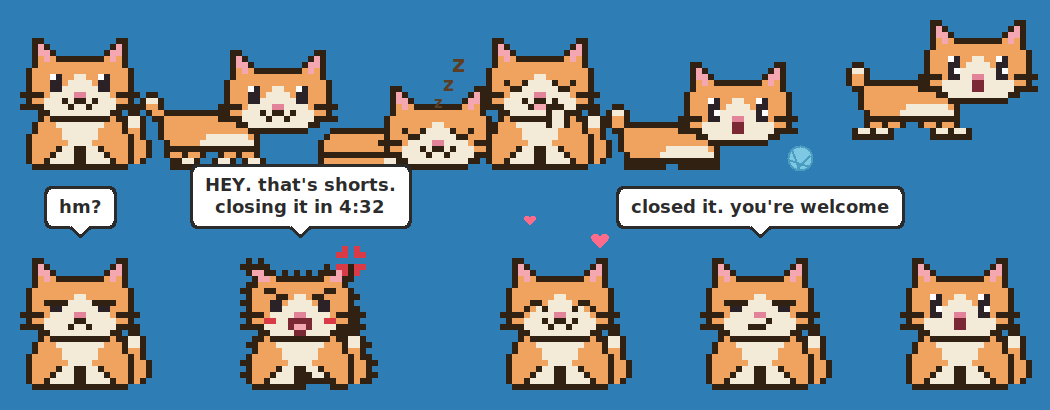
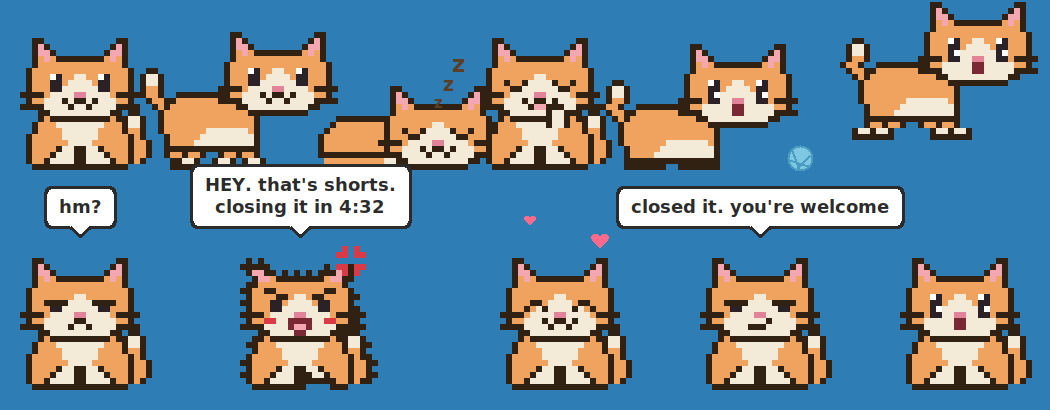
Fix the extension never reaching the cat; rounder walking pixel cat
Firefox ignores ports in extension host permissions, so the extension's
requests to 127.0.0.1:47321 went through a CORS preflight that the server
didn't answer, and every report failed. The server now answers the
preflight (and adds the CORS header) for moz-extension:// origins only,
so the already-signed extension works without changes. The manifest's
permission is also corrected for the next time it gets signed.

The right-click menu now shows which site the cat currently sees.

The side-on pixel sprites (walk, pounce, loaf) are taller and rounder.

Claude-Session: https://claude.ai/code/session_01LDi1S53gVt3UDHMUtvUREj

Changed region(s): [[0.1219, 0.0585, 0.3657, 0.3512], [0.5486, 0.0878, 0.7619, 0.3805], [0.7924, 0.0, 1.0, 0.2634]]

diff --git a/focuscat/pixel.py b/focuscat/pixel.py
@@ -87,12 +87,15 @@ SIT_TAILS = [
 
 # --- side-on bodies (18 wide) --------------------------------------------------------------
 
-WALK_BODY = [".OOOOOOOOOOOOOO...",
-             "OFFppFFFFFFFFFFO..",
-             "OFppppFFFFFFFFFFO.",
-             "OFFppFFFFFFFFFFFO.",
+WALK_BODY = ["...OOOOOOOOOOO....",
+             "..OFFppFFFFFFFO...",
+             ".OFppppFFFFFFFFO..",
+             "OFFFppFFFFFFFFFFO.",
+             "OFFFFFFFFFFFFFFFO.",
+             "OFFFFFFFFFFFFFFFO.",
              "OFFFFFFFcccccccFO.",
              ".OFFFFFcccccccccO.",
+             ".OFFFFccccccccccO.",
              "..OOOOOOOOOOOOOO.."]
 
 LEG = ["OFFO",
@@ -104,23 +107,29 @@ LEG = ["OFFO",
 WALK_TAILS = [
     [".OO...",
      "OttO..",
+     "OttO..",
+     "OFFO..",
      "OFFO..",
      ".OFFO.",
      "..OFFO"],
     ["..OO..",
      ".OttO.",
+     ".OttO.",
      ".OFFO.",
+     "OFFO..",
      ".OFFO.",
      "..OFFO"],
 ]
 
-LOAF = ["..OOOOOOOOOOOO....",
-        ".OFFppFFFFFFFFO...",
-        "OFppppFFFFFFFFFO..",
-        "OFFppFFFFFFFFFFO..",
+LOAF = ["...OOOOOOOOOO.....",
+        "..OFFppFFFFFFO....",
+        ".OFppppFFFFFFFO...",
+        "OFFFppFFFFFFFFFO..",
         "OFFFFFFFFFFFFFFO..",
         "OFFFFFFFFFFFFFFO..",
-        ".OOOOOOOOOOOOOO..."]
+        "OFFFFFFFFFFFFFFO..",
+        ".OFFFFFFFFFFFFFO..",
+        "..OOOOOOOOOOOOO..."]
 
 GROOM_PAW = [".OO.",
              "OkkO",
@@ -308,11 +317,11 @@ def walk(p, t, phase, face=None, amp=1.0, crouch=0.0, wiggle=0.0, stretch=0.0):
         sp.blit(LEG[:3], x0, -5)
         sp.blit(LEG[3:], x0 + sh, -2)
     tail_frame = int(t * (6 if wiggle else 2)) % 2
-    sp.blit(WALK_TAILS[tail_frame], -15 + wig, -13 + drop)
-    sp.blit(WALK_BODY, -12 + wig, -10 + drop)
+    sp.blit(WALK_TAILS[tail_frame], -15 + wig, -17 + drop)
+    sp.blit(WALK_BODY, -12 + wig, -13 + drop)
     if pal["stripes"]:
-        sp.put(0, drop, [(-6, -9, "D"), (-6, -8, "D"), (-3, -9, "D"), (-3, -8, "D"), (0, -9, "D"), (0, -8, "D")])
-    head(sp, -1, -20 + drop, pal, t=t, **face)
+        sp.put(0, drop, [(-6, -12, "D"), (-6, -11, "D"), (-3, -12, "D"), (-3, -11, "D"), (0, -12, "D"), (0, -11, "D")])
+    head(sp, -1, -23 + drop, pal, t=t, **face)
     render(p, sp)
     return _anchor(p, sp, -1)
 
@@ -324,7 +333,7 @@ def sleep(p, t):
     rows = LOAF if not breathe_in else [LOAF[0], LOAF[1]] + LOAF[1:]
     sp.blit(rows, -12, -len(rows))
     if pal["stripes"]:
-        sp.put(0, 0, [(-6, -6, "D"), (-6, -5, "D"), (-3, -6, "D"), (-3, -5, "D")])
+        sp.put(0, 0, [(-6, -8, "D"), (-6, -7, "D"), (-3, -8, "D"), (-3, -7, "D")])
     # Tail wrapped along the front.
     sp.put(0, 0, [(x, -3, "O") for x in range(-11, 1)] + [(x, -2, "F") for x in range(-11, -1)] +
            [(-1, -2, "t"), (0, -2, "t"), (1, -2, "O")])

diff --git a/focuscat/server.py b/focuscat/server.py
@@ -11,9 +11,15 @@ ALLOWED_ORIGINS = ("moz-extension://", "chrome-extension://")
 
 def make_handler(watcher):
     class Handler(BaseHTTPRequestHandler):
+        def _extension_origin(self):
+            origin = self.headers.get("Origin") or ""
+            return origin if origin.startswith(ALLOWED_ORIGINS) else None
+
         def _send(self, code, payload):
             body = json.dumps(payload).encode("utf-8")
             self.send_response(code)
+            if self._extension_origin():
+                self.send_header("Access-Control-Allow-Origin", self._extension_origin())
             self.send_header("Content-Type", "application/json")
             self.send_header("Content-Length", str(len(body)))
             self.end_headers()
@@ -26,6 +32,21 @@ def make_handler(watcher):
                 return False
             origin = self.headers.get("Origin")
             return origin is None or origin.startswith(ALLOWED_ORIGINS)
+
+        def do_OPTIONS(self):
+            # Firefox extensions can't be granted a host permission with a port in it, so the
+            # extension's requests go through a normal CORS preflight. Say yes to extensions only.
+            origin = self._extension_origin()
+            if self.path != "/report" or not origin:
+                self._send(403, {"error": "forbidden"})
+                return
+            self.send_response(204)
+            self.send_header("Access-Control-Allow-Origin", origin)
+            self.send_header("Access-Control-Allow-Methods", "POST")
+            self.send_header("Access-Control-Allow-Headers", "Content-Type, X-Focus-Cat")
+            self.send_header("Access-Control-Max-Age", "600")
+            self.send_header("Content-Length", "0")
+            self.end_headers()
 
         def do_GET(self):
             if self.path == "/ping":

diff --git a/tests/test_server.py b/tests/test_server.py
@@ -39,6 +39,28 @@ class ServerTest(unittest.TestCase):
                 self.post({"url": "x"}, headers)
             self.assertEqual(ctx.exception.code, 403)
 
+    def test_preflight_allowed_for_extensions_only(self):
+        def preflight(origin):
+            req = urllib.request.Request(f"http://127.0.0.1:{self.srv.port}/report", method="OPTIONS",
+                                         headers={"Origin": origin, "Access-Control-Request-Method": "POST",
+                                                  "Access-Control-Request-Headers": "content-type,x-focus-cat"})
+            return urllib.request.urlopen(req, timeout=3)
+
+        with preflight("moz-extension://1234") as res:
+            self.assertEqual(res.status, 204)
+            self.assertEqual(res.headers["Access-Control-Allow-Origin"], "moz-extension://1234")
+            self.assertIn("X-Focus-Cat", res.headers["Access-Control-Allow-Headers"])
+        with self.assertRaises(urllib.error.HTTPError) as ctx:
+            preflight("https://evil.example")
+        self.assertEqual(ctx.exception.code, 403)
+
+    def test_report_response_carries_cors_header(self):
+        req = urllib.request.Request(f"http://127.0.0.1:{self.srv.port}/report", data=b"{}", method="POST",
+                                     headers={"Content-Type": "application/json", "X-Focus-Cat": "1",
+                                              "Origin": "moz-extension://1234"})
+        with urllib.request.urlopen(req, timeout=3) as res:
+            self.assertEqual(res.headers["Access-Control-Allow-Origin"], "moz-extension://1234")
+
     def test_second_instance_cannot_bind(self):
         with self.assertRaises(OSError):
             ReportServer(self.w, self.srv.port)

diff --git a/focuscat/app.py b/focuscat/app.py
@@ -492,6 +492,9 @@ class CatApp:
         m = tk.Menu(self.root, tearoff=0)
         if st["connected"]:
             m.add_command(label=f"{name} can see Firefox ✓", state="disabled")
+            host = w.normalize(st["url"]).split("/")[0]
+            if host:
+                m.add_command(label=f"Looking at: {host}", state="disabled")
         else:
             m.add_command(label="Can't see Firefox yet (extension installed?)", state="disabled")
         if st["paused_for"] > 0:
